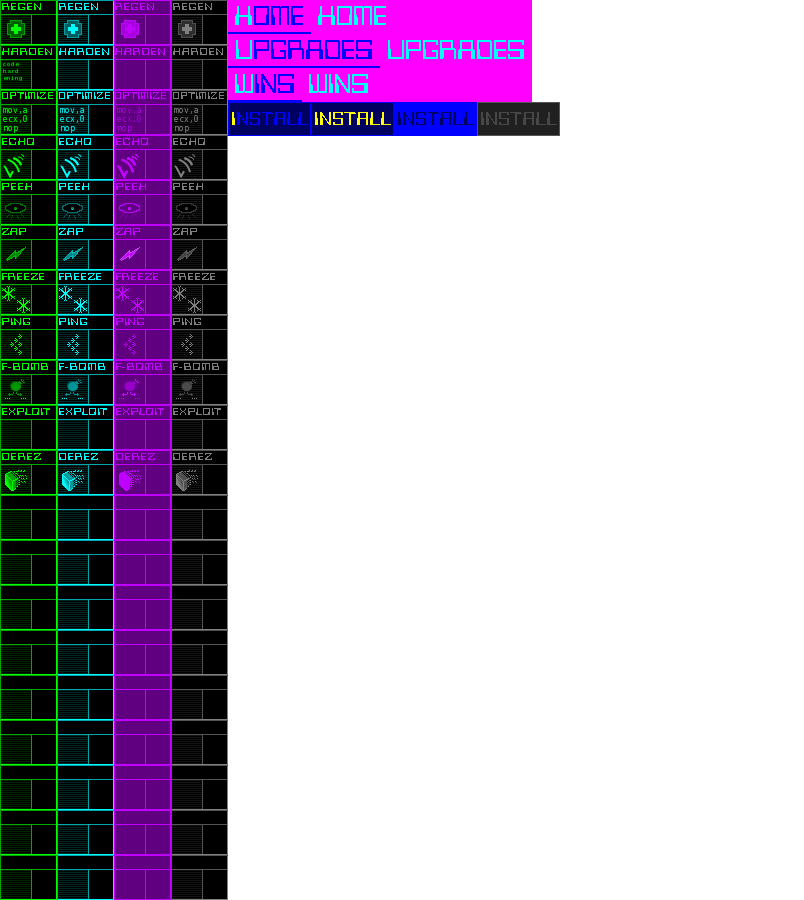
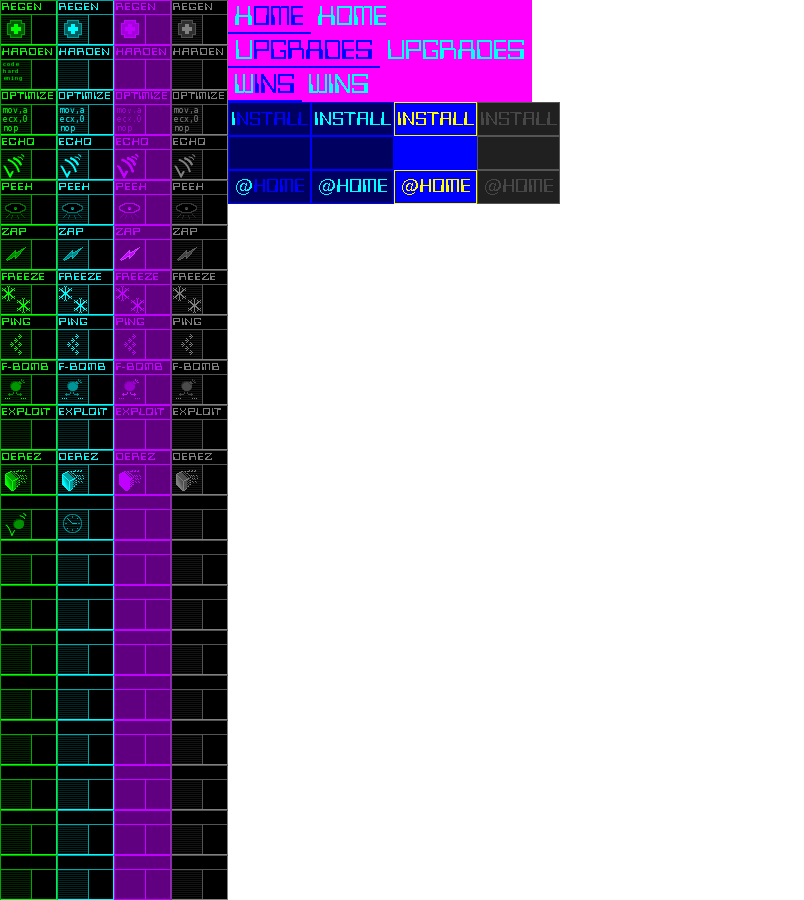
show Home button and parameterize button locations

Changed region(s): [[0.2799, 0.1244, 0.7152, 0.2489], [0.1555, 0.0933, 0.1866, 0.1244], [0.0, 0.56, 0.0311, 0.5911]]

diff --git a/data/aliveView.py b/data/aliveView.py
@@ -215,9 +215,6 @@ class GraphicalView(object):
                         self.ui.click(event.char)
                     else:
                         self.ui.unclick()
-                    #TODO move this handler to a UxButton
-                    if event.char == '@':
-                        self.evManager.Post(StateChangeEvent(self.last_info_state))
 
             elif (isinstance(event, StateChangeEvent) or
                     isinstance(event, StateSwapEvent)):
@@ -1113,19 +1110,26 @@ class GraphicalView(object):
             colorkey=color.magenta
             )
 
-        # set up info screen tabs
+        # add the "goto home screen" button
+        button = ui.UxButton(
+            rect=BT_HOME_DST,
+            image_rect=BT_HOME_SRC,
+            code='goto home',
+            hotkey='@',
+            enabled=True,
+            border_color=None,
+            context=STATE_PLAY
+            )
+        self.ui.add(button, hide_hotkey=True
+        )
+
+        # set up info screen tabs (list required)
         tab_states = [STATE_INFO_HOME, STATE_INFO_UPGRADES, STATE_INFO_WINS]
-        home_source = (228, 0, 83, 34)
-        home_dest = (12, 12, home_source[2], home_source[3])
-        upgrades_source = (228, 34, 152, 34)
-        upgrades_dest = (97, 12, upgrades_source[2], upgrades_source[3])
-        wins_source = (228, 68, 74, 34)
-        wins_dest = (251, 12, wins_source[2], wins_source[3])
 
         # add home tab
         tab = ui.UxTabButton(
-            rect=home_dest,
-            image_rect=home_source,
+            rect=TB_HOME_DST,
+            image_rect=TB_HOME_SRC,
             code='home tab',
             hotkey='h',
             enabled=True,
@@ -1138,8 +1142,8 @@ class GraphicalView(object):
 
         # add upgrades tab
         tab = ui.UxTabButton(
-            rect=upgrades_dest,
-            image_rect=upgrades_source,
+            rect=TB_UPGRADE_DST,
+            image_rect=TB_UPGRADE_SRC,
             code='upgrades tab',
             hotkey='u',
             enabled=True,
@@ -1151,8 +1155,8 @@ class GraphicalView(object):
 
         # add wins tab
         tab = ui.UxTabButton(
-            rect=wins_dest,
-            image_rect=wins_source,
+            rect=TB_WINS_DST,
+            image_rect=TB_WINS_SRC,
             code='wins tab',
             hotkey='w',
             enabled=True,
@@ -1164,8 +1168,8 @@ class GraphicalView(object):
 
         # upgrade Install button
         button = ui.UxButton(
-            rect=(30, 60, 843, 34),
-            image_rect=(228, 102, 83, 34),
+            rect=BT_INSTALL_DST,
+            image_rect=BT_INSTALL_SRC,
             code='install upgrade',
             hotkey='i',
             enabled=False,
@@ -1175,8 +1179,7 @@ class GraphicalView(object):
         self.ui.add(button, hide_hotkey=True)
 
         # prepare the default upgrade screen message
-        the_message = ("Select an upgrade to view more about it. "
-             "If you have one already installed it will version up.")
+        the_message = "Select an upgrade to view more about it. "
         self.chosen_upgrade_details = self.draw_text_block(
             the_message,
             self.smallfont,
@@ -1228,7 +1231,6 @@ class GraphicalView(object):
         self.ui.remove_by_code(code_list)
 
         if game_state == STATE_PLAY:
-            # position buttons for the playing state
 
             butt_x = 14
             butt_y = 69
@@ -1342,6 +1344,10 @@ class GraphicalView(object):
 
         tab_states = [STATE_INFO_HOME, STATE_INFO_UPGRADES, STATE_INFO_WINS]
 
+        if context == STATE_PLAY:
+            if ux.code == 'goto home':
+                self.evManager.Post(StateChangeEvent(self.last_info_state))
+
         # handle info screen menus
         if context in tab_states:
             if ux.code == 'home tab':
@@ -1382,3 +1388,29 @@ class GraphicalView(object):
                         )
 
         trace.write('pressed button %s' % ux.code)
+
+# locations of ui.png images
+# goto home button
+BT_HOME_SRC = (228, 170, 83, 34)
+BT_HOME_DST = (500, 26, 0, 0)
+# home tabs
+BT_INSTALL_SRC = (228, 102, 83, 34)
+BT_INSTALL_DST = (30, 60, 0, 0)
+TB_HOME_SRC = (228, 0, 83, 34)
+TB_HOME_DST = (12, 12, 0, 0)
+TB_UPGRADE_SRC = (228, 34, 152, 34)
+TB_UPGRADE_DST = (97, 12, 0, 0)
+TB_WINS_SRC = (228, 68, 74, 34)
+TB_WINS_DST = (251, 12, 0, 0)
+# upgrades
+UG_REGEN_SRC = (0, 0, 57, 45)
+UG_HARDENING_SRC = (0, 45, 57, 45)
+UG_OPTIMIZE_SRC = (0, 90, 57, 45)
+UG_ECHO_SRC = (0, 135, 57, 45)
+UG_PEEK_SRC = (0, 180, 57, 45)
+UG_ZAP_SRC = (0, 225, 57, 45)
+UG_FREEZE_SRC = (0, 270, 57, 45)
+UG_PING_SRC = (0, 315, 57, 45)
+UG_FORK_SRC = (0, 360, 57, 45)
+UG_EXPLOIT_SRC = (0, 405, 57, 45)
+UG_DEREZ_SRC = (0, 450,  57, 45)
